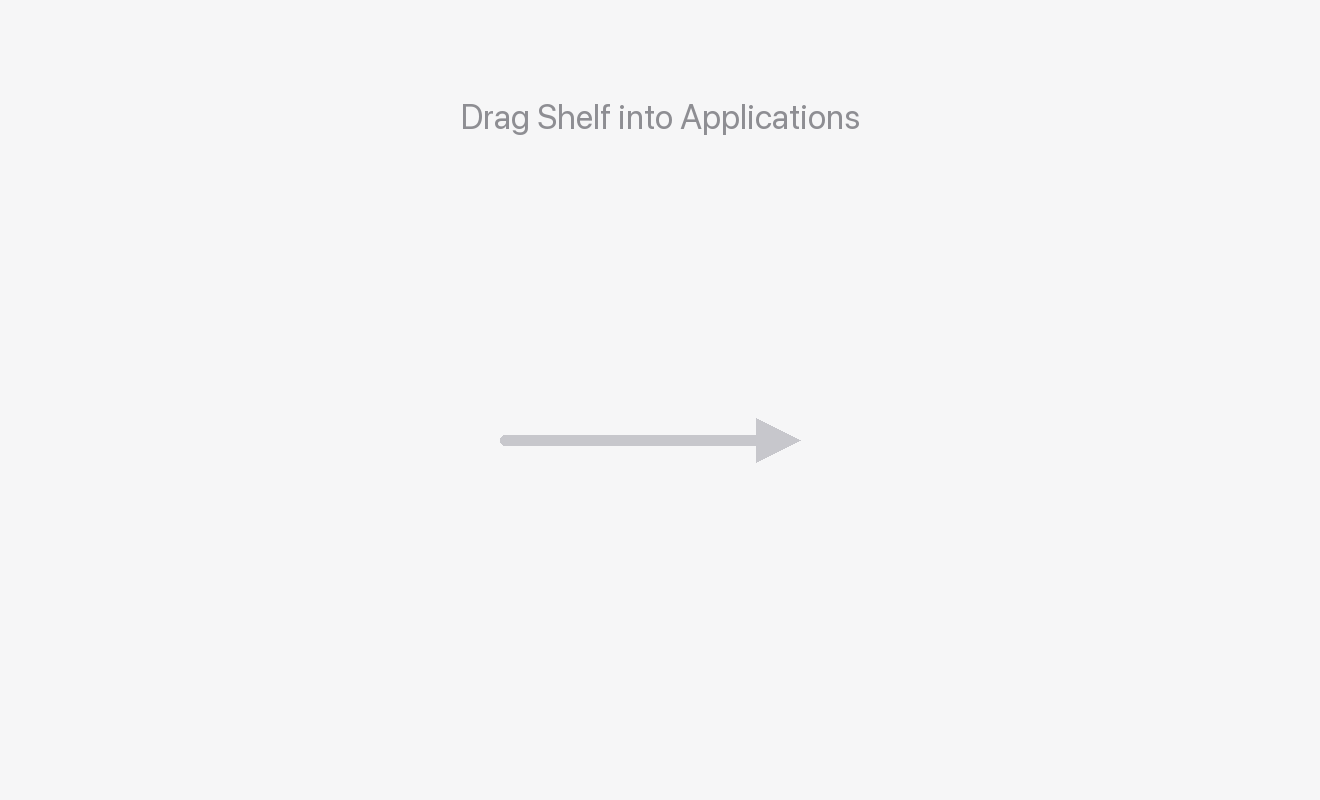
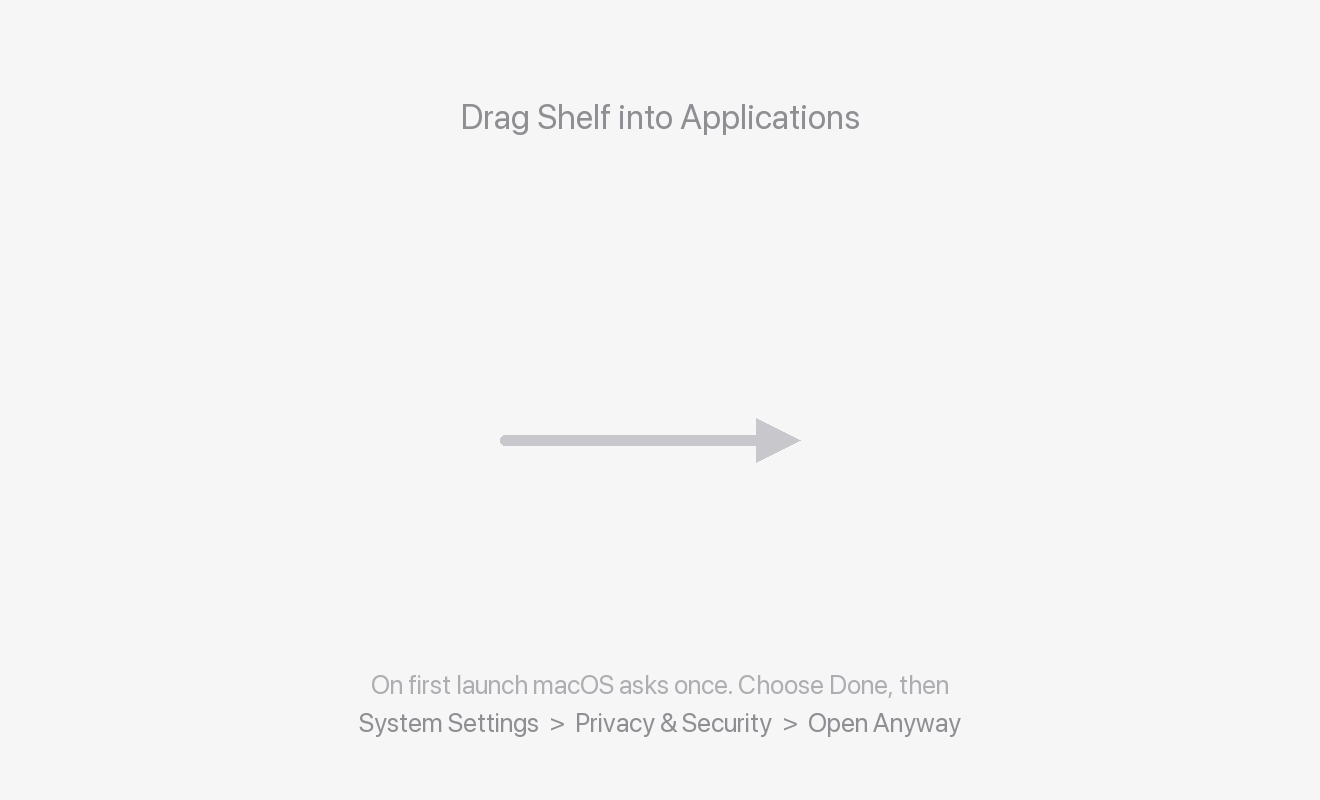
First launch help where the user actually is: in the DMG window

Changed region(s): [[0.2795, 0.8438, 0.7144, 0.9375]]

diff --git a/packaging/shelf.rb b/packaging/shelf.rb
@@ -5,7 +5,7 @@
 #   shasum -a 256 Shelf-x.y.z.dmg
 cask "shelf" do
   version "1.0.0"
[2 lines of base64/hex data omitted]
 
   url "https://github.com/ssamsenpai/shelf/releases/download/v#{version}/Shelf-#{version}.dmg"
   name "Shelf"

diff --git a/README.md b/README.md
@@ -72,9 +72,11 @@ There is no account, no backend, and no analytics. The only thing Shelf ever use
 
 ## 📦 Install
 
-Download the DMG from [Releases](../../releases), open it, and drag Shelf to Applications.
+1. Download the DMG from [Releases](../../releases) and drag Shelf into Applications.
+2. Open Shelf. macOS will say it cannot verify the app, because the build is not notarized yet. Choose **Done**, not Move to Trash.
+3. Open **System Settings**, go to **Privacy & Security**, scroll down to the message about Shelf, and click **Open Anyway**.
 
-The build is not notarized yet, so the first launch takes one extra step. macOS will say it could not verify the app; choose Done (not Move to Trash), then open **System Settings, Privacy & Security**, scroll down to the message about Shelf, and click **Open Anyway**. This happens once. If you prefer the Terminal:
+macOS only asks once. If you prefer the Terminal, this does the same thing:
 
 ```sh
 xattr -d com.apple.quarantine /Applications/Shelf.app
